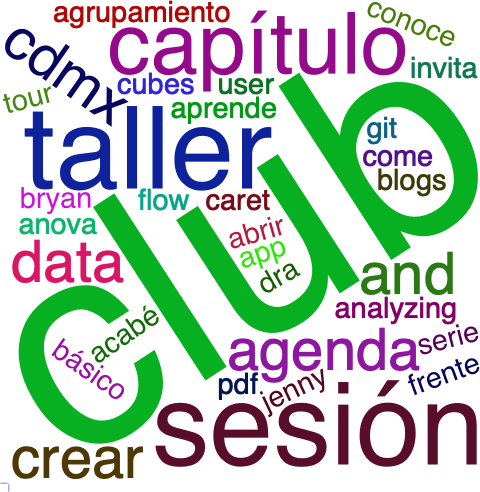
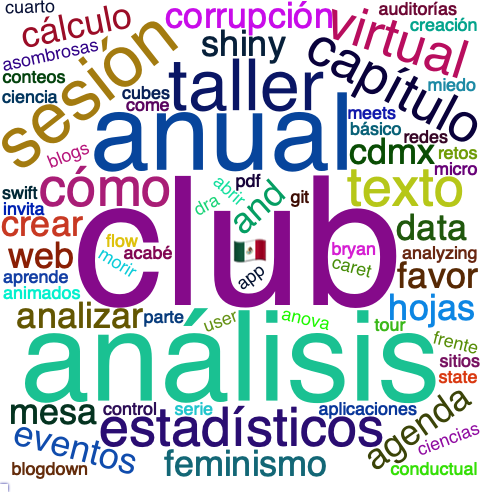
animacion

diff --git a/additional/2021TIB_Rladies/img/cloud.html b/additional/2021TIB_Rladies/img/cloud.html
@@ -12,9 +12,9 @@
 </head>
 <body>
 <div id="htmlwidget_container">
-  <div id="htmlwidget-bae478163ca04668a396" style="width:960px;height:500px;" class="wordcloud2 html-widget"></div>
+  <div id="htmlwidget-648c65668c29de0b705c" style="width:960px;height:500px;" class="wordcloud2 html-widget"></div>
 </div>
-<script type="application/json" data-for="htmlwidget-bae478163ca04668a396">{"x":{"word":["club","introducción","lectura","primer","méxico","advanced","encuentro","análisis","visualización","anual","ggplot","cuernavaca","sesión","taller","capítulo","cómo","estadísticos","expresiones","limpieza","puebla","regulares","reunión","rstudio","texto","transformación","virtual","xalapa","¿cómo","agenda","analizando","analizar","and","cdmx","conversatorio","corrupción","crear","cálculo","data","eventos","familiar","favor","feminismo","funciones","generación","gráficas","hacer","heatmaps","hojas","humanidades","importando","legislativa","meetuptaller","mesa","minería","modelos","niñas","reunion","shiny","sociales","talleres","tercer","tidyverse","trabajo","twitter","violencia","web","xaringan","🇲🇽","abrir","acabé","agrupamiento","aguascalientes","analyzing","animados","anova","aplicaciones","app","aprende","asombrosas","auditorías","bioinformática","blogdown","blogs","bryan","básico","canciones","caret","ciencia","ciencias","come","conductual","conoce","conociendo","construcción","conteos","control","creación","cuarto","cubes","democracia","descriptiva","discretos","diseños","dra","encuesta","encuestas","escribiendo","estadística","estadísticas","estadístico","estructuras","estáticos","experimento","experimentos","exploración","factoriales","flow","frente","funcionales","función","git","github","graficando","gráficos","herramienta","impunidad","informativa","inolvidable","intento","interactivas","introductoria","introductorio","invita","jenny","learning","maching","mapas","markdown","meets","melina","mexicanas","mexico","micro","miedo","models","morir","movimiento","movimientos","mujeres","mundo","nacional","navidad","netflix","optogenética","ordenamiento","organizadoras","paquete","paquetería","parte","pdf","perderle","pipes","pirámides","población","políticas","potluck","presenta","presentaciones","primera","principiantes","procesamiento","proyecciones","pruebas","python","públicas","querétaro","redes","report","reportando","resultados","retos","rladiescdmx","rladiesmty","rladiesqroretosdatasetbymujeres","rladiestijuana","rmarkdown","ropensci","rápidos","sarscov","segunda","segundo","serie","shinny","simulación","sitios","space","spatial","spatiotemporal","state","stringr","studio","subsetting","swift","tableros","taylor","tercera","textos","tidymodels","tour","trabajando","usando","user","using","usuarixs","vidoni","visnetwork","visualising","webinar","workshop","¡octavo","¡segunda","¡sexto","¡séptimo"],"freq":[10,10,10,10,9,8,8,7,7,6,6,4,4,4,3,3,3,3,3,3,3,3,3,3,3,3,3,3,2,2,2,2,2,2,2,2,2,2,2,2,2,2,2,2,2,2,2,2,2,2,2,2,2,2,2,2,2,2,2,2,2,2,2,2,2,2,2,2,1,1,1,1,1,1,1,1,1,1,1,1,1,1,1,1,1,1,1,1,1,1,1,1,1,1,1,1,1,1,1,1,1,1,1,1,1,1,1,1,1,1,1,1,1,1,1,1,1,1,1,1,1,1,1,1,1,1,1,1,1,1,1,1,1,1,1,1,1,1,1,1,1,1,1,1,1,1,1,1,1,1,1,1,1,1,1,1,1,1,1,1,1,1,1,1,1,1,1,1,1,1,1,1,1,1,1,1,1,1,1,1,1,1,1,1,1,1,1,1,1,1,1,1,1,1,1,1,1,1,1,1,1,1,1,1,1,1,1,1,1,1,1,1,1,1,1,1,1,1,1,1,1,1,1],"fontFamily":"Segoe UI","fontWeight":"bold","color":"random-dark","minSize":0,"weightFactor":28.8,"backgroundColor":"white","gridSize":0,"minRotation":-0.785398163397448,"maxRotation":0.785398163397448,"shuffle":true,"rotateRatio":0.4,"shape":"circle","ellipticity":0.65,"figBase64":null,"hover":null},"evals":[],"jsHooks":{"render":[{"code":"function(el,x){\n                        console.log(123);\n                        if(!iii){\n                          window.location.reload();\n                          iii = False;\n\n                        }\n  }","data":null}]}}</script>
-<script type="application/htmlwidget-sizing" data-for="htmlwidget-bae478163ca04668a396">{"viewer":{"width":450,"height":350,"padding":0,"fill":true},"browser":{"width":960,"height":500,"padding":0,"fill":true}}</script>
+<script type="application/json" data-for="htmlwidget-648c65668c29de0b705c">{"x":{"word":["club","introducción","lectura","primer","méxico","advanced","encuentro","análisis","visualización","anual","ggplot","cuernavaca","sesión","taller","capítulo","cómo","estadísticos","expresiones","limpieza","puebla","regulares","reunión","rstudio","texto","transformación","virtual","xalapa","¿cómo","agenda","analizando","analizar","and","cdmx","conversatorio","corrupción","crear","cálculo","data","eventos","familiar","favor","feminismo","funciones","generación","gráficas","hacer","heatmaps","hojas","humanidades","importando","legislativa","meetuptaller","mesa","minería","modelos","niñas","reunion","shiny","sociales","talleres","tercer","tidyverse","trabajo","twitter","violencia","web","xaringan","🇲🇽","abrir","acabé","agrupamiento","aguascalientes","analyzing","animados","anova","aplicaciones","app","aprende","asombrosas","auditorías","bioinformática","blogdown","blogs","bryan","básico","canciones","caret","ciencia","ciencias","come","conductual","conoce","conociendo","construcción","conteos","control","creación","cuarto","cubes","democracia","descriptiva","discretos","diseños","dra","encuesta","encuestas","escribiendo","estadística","estadísticas","estadístico","estructuras","estáticos","experimento","experimentos","exploración","factoriales","flow","frente","funcionales","función","git","github","graficando","gráficos","herramienta","impunidad","informativa","inolvidable","intento","interactivas","introductoria","introductorio","invita","jenny","learning","maching","mapas","markdown","meets","melina","mexicanas","mexico","micro","miedo","models","morir","movimiento","movimientos","mujeres","mundo","nacional","navidad","netflix","optogenética","ordenamiento","organizadoras","paquete","paquetería","parte","pdf","perderle","pipes","pirámides","población","políticas","potluck","presenta","presentaciones","primera","principiantes","procesamiento","proyecciones","pruebas","python","públicas","querétaro","redes","report","reportando","resultados","retos","rladiescdmx","rladiesmty","rladiesqroretosdatasetbymujeres","rladiestijuana","rmarkdown","ropensci","rápidos","sarscov","segunda","segundo","serie","shinny","simulación","sitios","space","spatial","spatiotemporal","state","stringr","studio","subsetting","swift","tableros","taylor","tercera","textos","tidymodels","tour","trabajando","usando","user","using","usuarixs","vidoni","visnetwork","visualising","webinar","workshop","¡octavo","¡segunda","¡sexto","¡séptimo"],"freq":[10,10,10,10,9,8,8,7,7,6,6,4,4,4,3,3,3,3,3,3,3,3,3,3,3,3,3,3,2,2,2,2,2,2,2,2,2,2,2,2,2,2,2,2,2,2,2,2,2,2,2,2,2,2,2,2,2,2,2,2,2,2,2,2,2,2,2,2,1,1,1,1,1,1,1,1,1,1,1,1,1,1,1,1,1,1,1,1,1,1,1,1,1,1,1,1,1,1,1,1,1,1,1,1,1,1,1,1,1,1,1,1,1,1,1,1,1,1,1,1,1,1,1,1,1,1,1,1,1,1,1,1,1,1,1,1,1,1,1,1,1,1,1,1,1,1,1,1,1,1,1,1,1,1,1,1,1,1,1,1,1,1,1,1,1,1,1,1,1,1,1,1,1,1,1,1,1,1,1,1,1,1,1,1,1,1,1,1,1,1,1,1,1,1,1,1,1,1,1,1,1,1,1,1,1,1,1,1,1,1,1,1,1,1,1,1,1,1,1,1,1,1,1],"fontFamily":"Segoe UI","fontWeight":"bold","color":"random-dark","minSize":0,"weightFactor":18,"backgroundColor":"white","gridSize":0,"minRotation":-0.785398163397448,"maxRotation":0.785398163397448,"shuffle":true,"rotateRatio":0.4,"shape":"circle","ellipticity":0.65,"figBase64":null,"hover":null},"evals":[],"jsHooks":{"render":[{"code":"function(el,x){\n                        console.log(123);\n                        if(!iii){\n                          window.location.reload();\n                          iii = False;\n\n                        }\n  }","data":null}]}}</script>
+<script type="application/htmlwidget-sizing" data-for="htmlwidget-648c65668c29de0b705c">{"viewer":{"width":450,"height":350,"padding":0,"fill":true},"browser":{"width":960,"height":500,"padding":0,"fill":true}}</script>
 </body>
 </html>

diff --git a/additional/2021TIB_Rladies/main.html b/additional/2021TIB_Rladies/main.html
@@ -195,7 +195,7 @@ Puros ponentes hombres en conferencias o puros hombres en paneles de discusión.
 
 
 
-![](main_files/figure-html/unnamed-chunk-15-1.png)&lt;!-- --&gt;
+![](main_files/figure-html/unnamed-chunk-15-1.gif)&lt;!-- --&gt;
 
 ---
 
@@ -243,7 +243,7 @@ Surge durante la pandemia con la idea de juntarnos para apoyarnos y crear comuni
 
 # Miembros por capítulo
 
-![](main_files/figure-html/unnamed-chunk-20-1.png)&lt;!-- --&gt;
+![](main_files/figure-html/unnamed-chunk-20-1.gif)&lt;!-- --&gt;
 
 ---
 
@@ -251,7 +251,7 @@ Surge durante la pandemia con la idea de juntarnos para apoyarnos y crear comuni
 
 
 
-![](main_files/figure-html/unnamed-chunk-22-1.png)&lt;!-- --&gt;
+&lt;img src="img/wcloud.png" width="18528" style="display: block; margin: auto;" /&gt;
 
 ---
 
